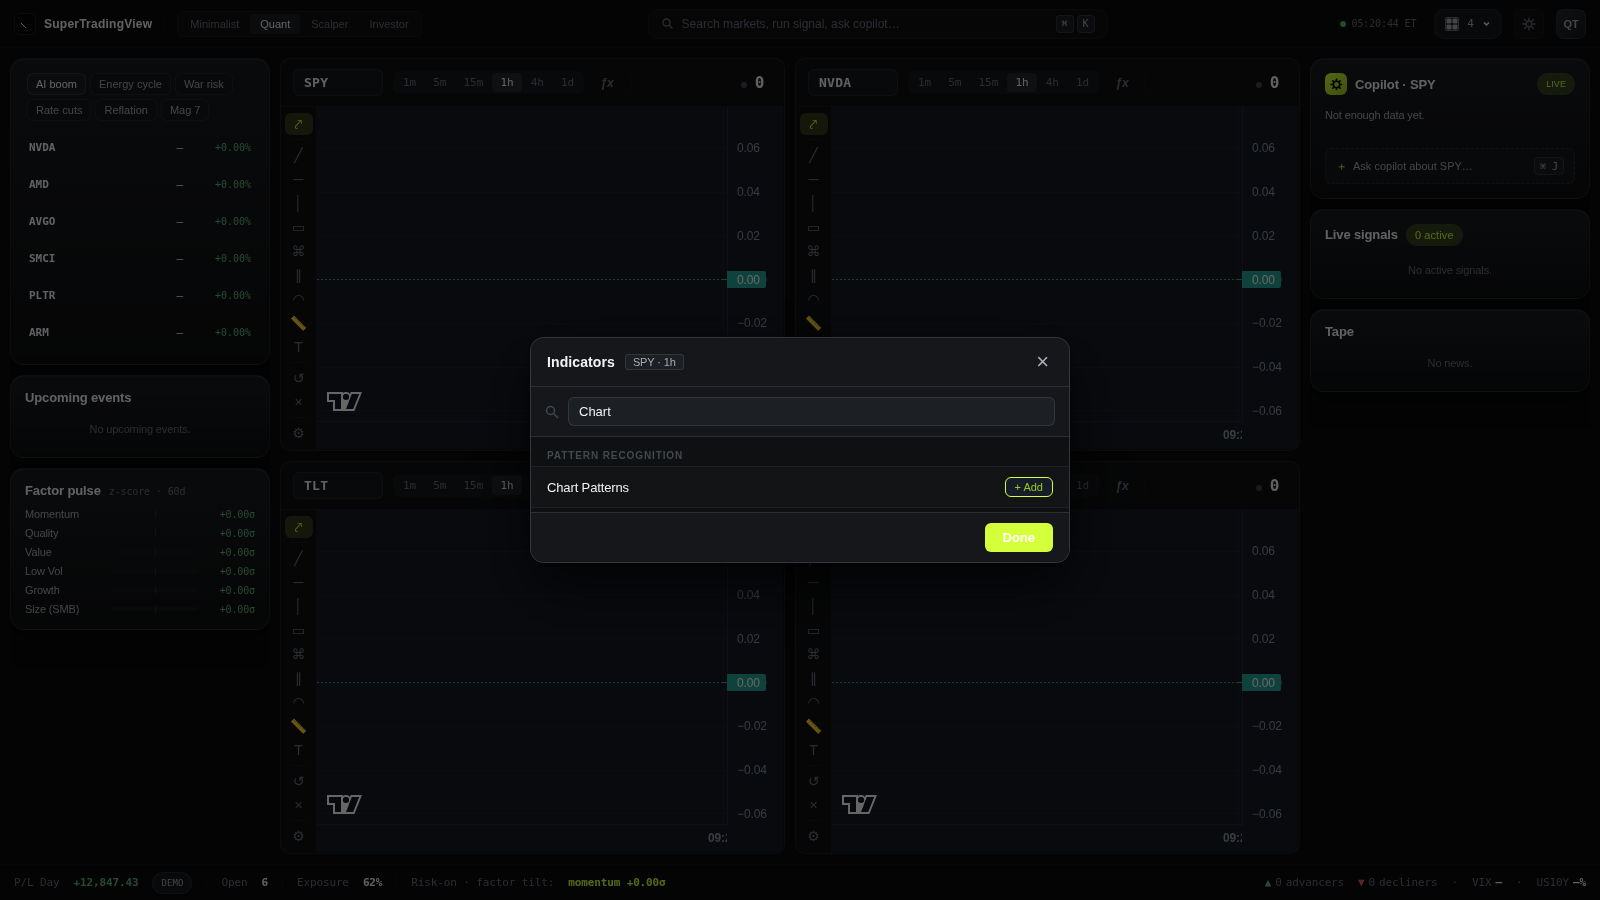
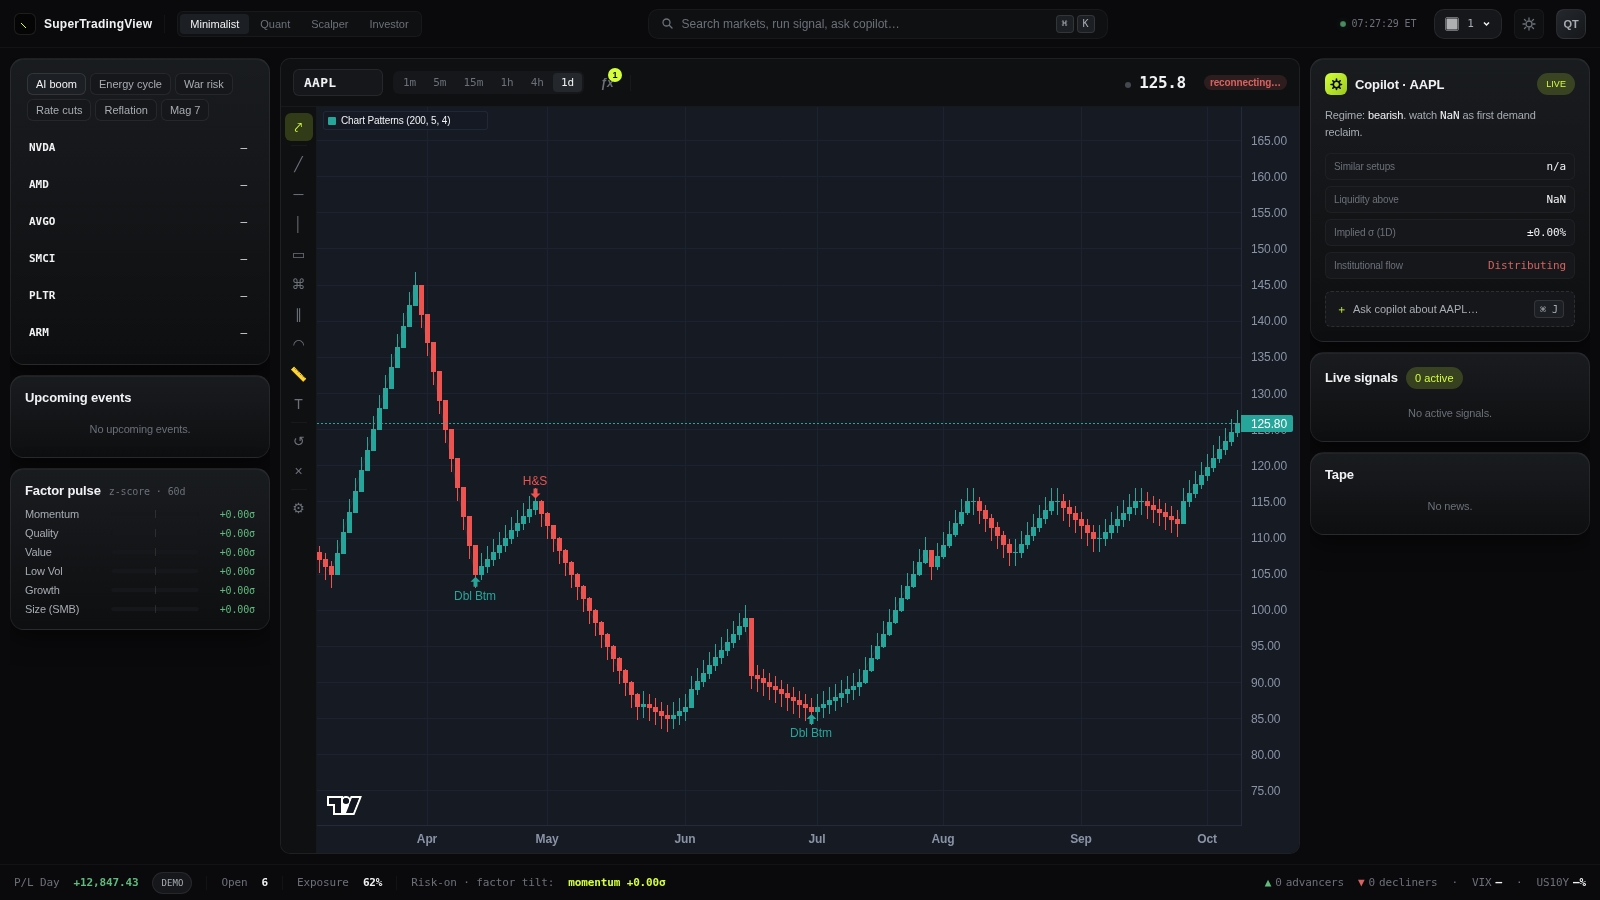
Add Chart Pattern Recognition indicator with LWC v5 marker support
- New chartPatterns() function in indicator-math.js detects 9 classic
  patterns (H&S, Inv H&S, Double Top/Bottom, Asc/Desc Triangle, Falling/
  Rising Wedge, Cup & Handle) using pivot-point analysis with configurable
  lookback, strength, and tolerance params
- New markerLine() helper wraps createSeriesMarkers() — the correct LWC v5
  API for attaching arrow markers to a series (series.setMarkers() was
  removed in v5)
- MA Crossover indicator updated to use markerLine / _markers.setMarkers
- Chart Patterns indicator definition added to DEFS with "Pattern
  Recognition" category; renders bullish (green ↑) and bearish (red ↓)
  arrow markers directly on the price chart
- Updated docs screenshot showing actual H&S and Double Bottom markers
  annotated on live candlestick data
- README: updated indicator count to 34, added pattern recognition section
  with pattern table and parameter reference

https://claude.ai/code/session_01XKyHRsowXxet1hYC24PkHx

diff --git a/static/modules/indicator-defs.js b/static/modules/indicator-defs.js
@@ -1,6 +1,6 @@
 // DEFS array: one entry per indicator, wires math to chart series.
 
-import { withAlpha, ohlcLine, histSeries,
+import { withAlpha, ohlcLine, markerLine, histSeries,
          sma, ema, wma, hma, dema, tema,
          bbands, donchian, keltner, vwap,
          psar, supertrend, ichimoku,
@@ -403,7 +403,7 @@ export const DEFS = [
       { key: "death",  label: "Death Cross",  default: "#ff4422" },
     ],
     build: (chart, _s, col) => [
-      ohlcLine(chart, col.fast, 0, { lineWidth: 2 }),
+      markerLine(chart, col.fast, 0, { lineWidth: 2 }),
       ohlcLine(chart, col.slow, 0, { lineWidth: 2, lineStyle: 2 }),
     ],
     compute: (c, p, col) => {
@@ -440,7 +440,7 @@ export const DEFS = [
     apply: (s, d) => {
       s[0].setData(d.fast);
       s[1].setData(d.slow);
-      s[0].setMarkers(d.markers);
+      s[0]._markers.setMarkers(d.markers);
     },
   },
 
@@ -461,7 +461,7 @@ export const DEFS = [
       { key: "line",    label: "Ref Line", default: "#888888" },
     ],
     build: (chart, _s, col) => [
-      ohlcLine(chart, withAlpha(col.line, 0.15), 0, { lineWidth: 1 }),
+      markerLine(chart, withAlpha(col.line, 0.15), 0, { lineWidth: 1 }),
     ],
     compute: (c, p, col) => chartPatterns(
       c,
@@ -473,7 +473,7 @@ export const DEFS = [
     ),
     apply: (s, d) => {
       s[0].setData(d.data);
-      s[0].setMarkers(d.markers);
+      s[0]._markers.setMarkers(d.markers);
     },
   },
 ];

diff --git a/static/modules/indicator-math.js b/static/modules/indicator-math.js
@@ -68,6 +68,14 @@ export function ohlcLine(chart, color, paneIndex, extra) {
   return chart.addSeries(LightweightCharts.LineSeries, lineOpts(color, extra), paneIndex || 0);
 }
 
+// Like ohlcLine but attaches a LWC v5 markers plugin so apply() can call
+// s._markers.setMarkers(). LWC v5 removed series.setMarkers() from the series API.
+export function markerLine(chart, color, paneIndex, extra) {
+  const s = ohlcLine(chart, color, paneIndex, extra);
+  s._markers = LightweightCharts.createSeriesMarkers(s, []);
+  return s;
+}
+
 export function histSeries(chart, paneIndex, extra) {
   return chart.addSeries(LightweightCharts.HistogramSeries,
     Object.assign({ priceLineVisible: false }, extra || {}),

diff --git a/README.md b/README.md
@@ -47,7 +47,7 @@ A local trading dashboard. Watch up to 8 live charts side-by-side, each with its
 
 Detects 9 classic patterns using pivot-point analysis and stamps arrow markers directly on the price chart — no separate pane needed.
 
-![Chart Patterns modal — Pattern Recognition category](docs/chart-patterns-modal.png)
+![Chart Patterns — H&S and Double Bottom markers on live chart](docs/chart-patterns-modal.png)
 
 | Marker | Pattern | Signal |
 |---|---|---|
